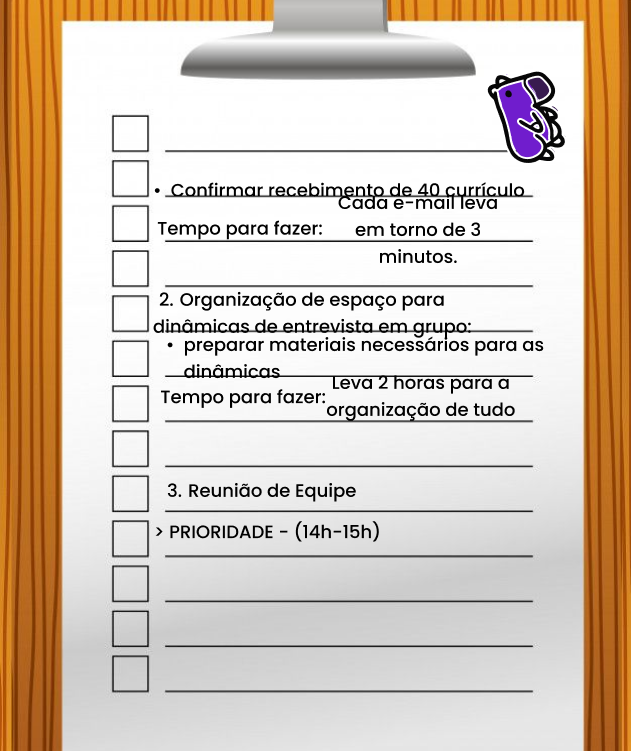
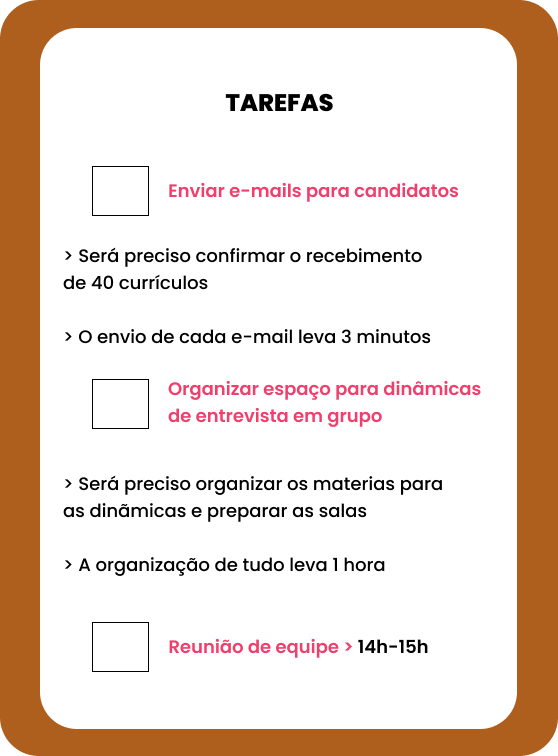
Arrumando conteudos

diff --git a/src/pages/conteudo/Conteudos.js b/src/pages/conteudo/Conteudos.js
@@ -5,7 +5,7 @@ import Vivi from './imagem/vivi.png';
 import Perfil from './imagem/perfil.png';
 import { useState, useEffect } from 'react';
 import './Conteudos.css';
-import planilha from "./imagem/Planilha2.png"
+import planilha from "./imagem/Planilha.png"
 
 const listaConteudos = [
     {
@@ -34,7 +34,7 @@ const listaConteudos = [
             {
                 id: 3,
                 messageClass: 'message-box2',
-                textoVivi: 'Se prepare para embarcar nessa jornada e descobrir como organizar o seu tempo, cumprir suas tarefas e atividades de forma organizada, e atender a prazos estabelecidos',
+                textoVivi: 'Agora que você sabe a importância dessa habilidade, bora praticar! Se prepare para embarcar nessa jornada e descobrir como organizar o seu tempo, cumprir suas tarefas e atividades de forma organizada, e atender a prazos estabelecidos.Está preparado(a)',
                 recepcao: false,
                 temPerfil: true,
                 textoBotaoUm: 'Eu nasci preparado(a)',
@@ -45,22 +45,13 @@ const listaConteudos = [
             {
                 id: 4,
                 messageClass: 'message-box2',
-                textoVivi: 'Agora que você sabe a importancia dessa habilidade, bora praticar!Se prepare para embarcar nessa jornada e descobrir como organizar o seu tempo, cumprir suas tarefas e atividades de forma organizada, e atender a prazos estabelecidos. Está preparado?',
-                recepcao: false,
-                temPerfil: false,
-                temBotoesDireciona: true,
-                bgImage: 'classebg4'
-            },
-            {
-                id: 5,
-                messageClass: 'message-box2',
                 textoVivi: 'Agora, imagine que você é um estagiário(a) na área de RH em uma grande empresa de tecnologia. Antes de começar seu trabalho, você precisa organizar as tarefas do seu dia. Seu horário de trabalho é das 9h às 15h e seu horário de almoço é das 12h às 13h. Sua supervisora marcou uma reunião com a equipe das 14h às 15h.',
                 image: planilha, 
                 classeImage: "imgPlanilha",  
                 recepcao: false,
                 temPerfil: false,
                 temBotoesDireciona: true,
-                bgImage: 'classebg5'
+                bgImage: 'classebg4'
             },
         ]
     },

diff --git a/src/pages/conteudo/Conteudo7.js b/src/pages/conteudo/Conteudo7.js
@@ -56,26 +56,26 @@ export default function Conteudo() {
       <div className='drop3_7'>
 
         <div className='drop_final7'><DroppableArea id="8" className="droppable-area-8" />
-          <p className='horarios' style={{ textAlign: "center" }}>12h</p>
+          <p className='horarios' style={{ textAlign: "center" }}>9h</p>
         </div>
 
         <div className='drop_final7'><DroppableArea id="9" className="droppable-area-8" />
-          <p className='horarios7' style={{ textAlign: "center" }}>12h</p>
+          <p className='horarios7' style={{ textAlign: "center" }}>10h</p>
         </div>
         <div className='drop_final7'><DroppableArea id="10" className="droppable-area-8" />
-          <p className='horarios7' style={{ textAlign: "center" }}>12h</p>
+          <p className='horarios7' style={{ textAlign: "center" }}>11h</p>
         </div>
         <div className='drop_final7'><DroppableArea id="11" className="droppable-area-8" />
           <p className='horarios7' style={{ textAlign: "center" }}>12h</p>
         </div>
         <div className='drop_final7'><DroppableArea id="12" className="droppable-area-8" />
-          <p className='horarios7' style={{ textAlign: "center" }}>12h</p>
+          <p className='horarios7' style={{ textAlign: "center" }}>13h</p>
         </div>
         <div className='drop_final7'><DroppableArea id="13" className="droppable-area-8" />
-          <p className='horarios7' style={{ textAlign: "center" }}>12h</p>
+          <p className='horarios7' style={{ textAlign: "center" }}>14h</p>
         </div>
         <div className='drop_final7'><DroppableArea id="14" className="droppable-area-8" />
-          <p className='horarios7' style={{ textAlign: "center" }}>12h</p>
+          <p className='horarios7' style={{ textAlign: "center" }}>15h</p>
         </div>
       </div>
     </div>

diff --git a/src/pages/conteudo/Conteudos.css b/src/pages/conteudo/Conteudos.css
@@ -4,7 +4,7 @@
   }
   
 .Container{
-    background-image: url("/src/pages/conteudo/imagem/Página\ da\ prática\ gestão\ do\ tempo.png");
+    /* background-image: url("/src/pages/conteudo/imagem/Página\ da\ prática\ gestão\ do\ tempo.png"); */
     background-repeat: no-repeat;
     width: 100%;
     height: 100vh;
@@ -31,7 +31,7 @@
 }
 
 .message-box2{
-    background-color: #F5F5F5;
+    background-color: #58D2FF;
     display: flex;
     align-items: center;
     position: absolute;
@@ -115,7 +115,35 @@
 .imgPlanilha{
     position: absolute;
     bottom: 15px;
-    left: 500px;
-    width: 500px;
-    height: 600px;
+    left: 50%;
+    width: 23%;
+}
+
+.classebg1{
+    background-image: url('./imagem/bgPlanilha.png');
+    background-size: auto;
+    background-position: center;
+
+}
+
+.classebg2{
+    background-image: url('./imagem/bgGestaoDeTempo.png');
+    background-size: 60%;
+    background-position: center;
+
+}
+
+.classebg3{
+    background-image: url('./imagem/bgEscritorio.png');
+    background-size: 50%;
+    background-position: center;
+
+}
+
+.classebg4{
+    background-image: url('./imagem/bgLugar.png');
+    background-size: contain;
+    background-color: #E9D7C9;
+    background-position: center;
+
 }

diff --git a/src/pages/conteudo/PerfilDialogo.css b/src/pages/conteudo/PerfilDialogo.css
@@ -1,5 +1,5 @@
 .escolha {
-    background-color: #F5F5F5;
+    background-color: #58D2FF;
     height: 150px;
     width: 0;
     display: flex;
@@ -8,9 +8,9 @@
     left: 180px;
     bottom: 40px;
     margin-left: 17px;
-    border-radius: 23px 23px 23px 23px;
+    border-radius: 0px 0px 60px 0px;
     flex-direction: column;
-    border: #000 3px solid;
+    border: #000 4px solid;
     animation: expand 1s forwards;
     overflow: hidden;
     animation-delay: 1.8s; 

diff --git a/src/pages/conteudo/Conteudo1.css b/src/pages/conteudo/Conteudo1.css
@@ -2,14 +2,14 @@
     padding: 0;
     margin: 0;
   }
-  
+/*   
 .Container{
     background-image: url('/src/pages/conteudo/imagem/Tela1.jpg');
     background-repeat: no-repeat;
     width: 100%;
     height: 100vh;
     margin-top: -12vh;
-}
+} */
 
 .cabecalho{
     display: flex;

diff --git a/src/pages/conteudo/Conteudo4.js b/src/pages/conteudo/Conteudo4.js
@@ -13,9 +13,6 @@ export default function Conteudo() {
   return (
     <div>
       
-        
-        
-      
       <img src={Vivi} alt="Capi Professor" className="capi" />
       <div className="message-container">
         <div className="message-box">
